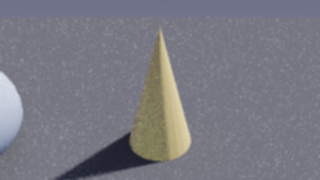
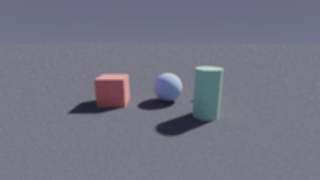
fix(path-tracer): correct cosine-weighted sampling, denoise and preview framing
- CosineHemisphere() with an orthonormal basis replaces normalize(normal + random),
  which exploded near the tangent plane and left speckle that no blur removed
- denoise kernel widens below 64 spp; RR now starts at the third bounce
- default 48 spp (noise ~ 1/sqrt(spp)); render panel frames the whole level
- screenshots refreshed

Changed region(s): [[0.1562, 0.1667, 0.7188, 1.0], [0.0, 0.3889, 0.0938, 0.8611]]

diff --git a/src/astra/render/Pathtracer.cpp b/src/astra/render/Pathtracer.cpp
@@ -97,6 +97,25 @@ bool Slab(const Vec3& min, const Vec3& max, const Vec3& origin, const Vec3& inve
     return tmax >= std::max(0.0f, tmin) && tmin < maxDistance;
 }
 
+// Cosine-weighted hemisphere sample around `normal`, using an orthonormal basis. Doing this
+// properly matters: normalising (normal + randomVector) explodes when the two nearly cancel,
+// which shows up as speckle that no amount of blur or extra samples removes.
+Vec3 CosineHemisphere(const Vec3& normal, Rng& rng) {
+    const float u1 = rng.Float();
+    const float u2 = rng.Float();
+    const float radius = std::sqrt(u1);
+    const float theta = 2.0f * kPi * u2;
+    const float x = radius * std::cos(theta);
+    const float y = radius * std::sin(theta);
+    const float z = std::sqrt(std::max(0.0f, 1.0f - u1));
+
+    // Build a basis that never degenerates, even for axis-aligned normals.
+    const Vec3 up = std::fabs(normal.y) < 0.9f ? Vec3(0.0f, 1.0f, 0.0f) : Vec3(1.0f, 0.0f, 0.0f);
+    const Vec3 tangent = VNormalize(VCross(up, normal));
+    const Vec3 bitangent = VCross(normal, tangent);
+    return VNormalize(VAdd(VMul(normal, z), VAdd(VMul(tangent, x), VMul(bitangent, y))));
+}
+
 }  // namespace
 
 void TraceScene::Build(const scene::Scene& scene) {
@@ -468,16 +487,18 @@ image::Buffer Render(const TraceScene& scene, const Camera& camera, const TraceS
                             // Ambient: hemisphere sky light, optionally with a short AO ray.
                             float occlusion = 1.0f;
                             if (settings.ambientOcclusion) {
+                                // Four hemisphere probes with a gentler per-hit weight: two
+                                // probes left visible speckle on large flat surfaces.
                                 int blocked = 0;
-                                for (int ao = 0; ao < 2; ++ao) {
-                                    Vec3 dir = rng.UnitSphere();
-                                    if (VDot(dir, hit.normal) < 0.0f) dir = VMul(dir, -1.0f);
-                                    if (scene.Occluded(VAdd(hit.position, VMul(hit.normal, kEpsilon * 4.0f)),
-                                                       VNormalize(dir), 2.5f)) {
+                                const float aoRadius = 2.5f;
+                                for (int ao = 0; ao < 4; ++ao) {
+                                    const Vec3 dir = CosineHemisphere(hit.normal, rng);
+                                    if (scene.Occluded(VAdd(hit.position, VMul(hit.normal, kEpsilon * 8.0f)),
+                                                       dir, aoRadius)) {
                                         ++blocked;
                                     }
                                 }
-                                occlusion = 1.0f - static_cast<float>(blocked) * 0.35f;
+                                occlusion = 1.0f - static_cast<float>(blocked) * 0.17f;
                             }
                             // Sky dome irradiance, also with the diffuse 1/pi factor and a
                             // little extra weight so shadowed sides still read as lit.
@@ -497,17 +518,17 @@ image::Buffer Render(const TraceScene& scene, const Camera& camera, const TraceS
                                 nextDirection = VNormalize(VAdd(reflected, VMul(rng.UnitSphere(), jitter)));
                                 throughput = VMulVec(throughput, hit.albedo);
                             } else {
-                                Vec3 dir = rng.UnitSphere();
-                                if (VDot(dir, hit.normal) < 0.0f) dir = VMul(dir, -1.0f);
-                                nextDirection = VNormalize(VAdd(hit.normal, dir));
+                                nextDirection = CosineHemisphere(hit.normal, rng);
                                 throughput = VMulVec(throughput, hit.albedo);
                             }
                             origin = VAdd(hit.position, VMul(hit.normal, kEpsilon * 6.0f));
                             rayDirection = nextDirection;
                             bounced = true;
 
-                            // Russian roulette keeps long paths from dominating the cost.
-                            if (bounce >= 1) {
+                            // Russian roulette keeps long paths from dominating the cost. It only
+                            // starts at the third bounce: killing paths earlier adds variance
+                            // to the first indirect bounce, which is most of the visible image.
+                            if (bounce >= 2) {
                                 const float survival = std::min(0.9f, std::max(0.15f, VLength(throughput)));
                                 if (rng.Float() > survival) break;
                                 throughput = VMul(throughput, 1.0f / survival);
@@ -543,7 +564,10 @@ image::Buffer Render(const TraceScene& scene, const Camera& camera, const TraceS
     for (auto& worker : workers) worker.join();
 
     if (settings.denoise) {
-        buffer.BoxBlur(1);
+        // Low sample counts need a wider kernel; high ones only need a seam-remover, and a
+        // wide blur there would eat real detail.
+        const int radius = settings.samples < 64 ? 2 : 1;
+        buffer.BoxBlur(radius);
     }
 
     if (stats) {

diff --git a/src/tools/UiPreview.cpp b/src/tools/UiPreview.cpp
@@ -461,8 +461,13 @@ void ShotRenderPanel(astra::app::AstraApp& app) {
     app.editor.showRenderPanel = true;
     app.editor.trace.width = 320;
     app.editor.trace.height = 180;
-    app.editor.trace.samples = 12;
-    app.editor.trace.maxBounces = 2;
+    app.editor.trace.samples = 64;
+    app.editor.trace.maxBounces = 3;
+    // Frame the whole level so the still reads like a render, not a close-up.
+    app.editor.viewportCamera.target = astra::scene::Vec3(0.0f, 1.0f, 0.0f);
+    app.editor.viewportCamera.distance = 13.0f;
+    app.editor.viewportCamera.yawDeg = 24.0f;
+    app.editor.viewportCamera.pitchDeg = 16.0f;
     for (int i = 0; i < 2; ++i) RenderFrame([&] { app.Draw(); });
 
     // Drive the real command rather than calling the tracer directly.

diff --git a/src/astra/app/screens/EditorWindows.cpp b/src/astra/app/screens/EditorWindows.cpp
@@ -238,7 +238,10 @@ void RenderPanel(AstraApp& app) {
     }
 
     const ImVec2 previewPos(left, y);
-    const ImVec2 previewSize(contentWidth, std::max(U(90.0f), top + ImGui::GetWindowHeight() - y - U(52.0f)));
+    // Stay inside the window: the preview fills whatever is left after the controls.
+    const float bottomEdge = ImGui::GetWindowPos().y + ImGui::GetWindowSize().y -
+                             ImGui::GetStyle().WindowPadding.y;
+    const ImVec2 previewSize(contentWidth, std::max(U(88.0f), bottomEdge - y - U(6.0f)));
     ImGui::SetCursorScreenPos(previewPos);
     ImGui::InvisibleButton("##trace_preview", previewSize);
     if (!app.editor.traceImage.Empty()) {

diff --git a/src/astra/render/Pathtracer.h b/src/astra/render/Pathtracer.h
@@ -27,7 +27,7 @@ enum class TraceBackend { Cpu = 0, Gpu };
 struct TraceSettings {
     int width = 480;
     int height = 270;
-    int samples = 24;          // paths per pixel
+    int samples = 48;          // paths per pixel (noise falls as 1/sqrt(samples))
     int maxBounces = 3;        // 0 = direct light only
     float exposure = 1.05f;
     float sunAngularRadiusDeg = 1.2f;  // soft sun disk for soft shadows
